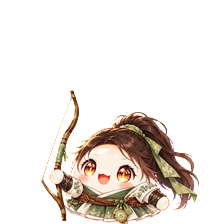
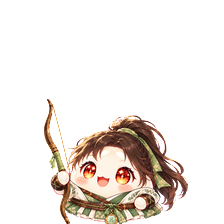
呂荃的弓改成正確拿法（弦朝身體、弓背朝外）；平台問題 P5
2026-10-10 作者：弓好像反了。從頭重產，重量身體寬與玉珮位置。

Changed region(s): [[0.1875, 0.4062, 0.9062, 1.0]]

diff --git a/scripts/gen_art.py b/scripts/gen_art.py
@@ -93,7 +93,8 @@ JOBS = {
                     'a short cream-white cross-collar top with green leaf embroidery, a sage green short layered skirt around the lower body, a brown leather belt, '
                     'small dark brown leather bracers on both nub hands, a high dark brown ponytail on top tied with a long green ribbon, amber eyes, a bright confident smile. '
                     'Weapon: the small wooden bow exactly as in image 3: a dark brown carved wooden bow with a light green cloth wrap at the grip and a thin string, already strung. '
-                    'Held upright by one nub hand beside the body, the string on the outer side. No arrows, no quiver. ' + ROUND + plate('#0000FF', 'blue')),   # 洋紅幕會吃掉帶粉的奶白身體（內部半透明 7.9 萬 px）
+                    'Held upright by one nub hand gripping the middle of the bow, beside the body, like an archer holding a bow at rest: the STRING is on the side facing the slime body (between the bow and the body), '
+                    'and the curved wooden limbs bulge OUTWARD away from the body. No arrows, no quiver. ' + ROUND + plate('#0000FF', 'blue')),   # 洋紅幕會吃掉帶粉的奶白身體（內部半透明 7.9 萬 px）   # 2026-10-10 作者：弓拿反了（第一版弦朝外、弓背朝身體）
     'outfit-xiang': (['slime', 'xiang', 'w_xiang'], OUTFIT + 'Costume of Yan Xiang from image 2 (a calm woman in plain grey-blue and earth-brown cloth robes) turned into a cute slime outfit: '
                      'a plain grey-blue cross-collar robe top with cream inner collar, a long earth-brown wrap skirt with a brown sash around the lower body, '
                      'only a small dark brown hair bun on the very top held by one simple wooden hairpin, the rest of the round dome stays bare pearl white (NO hair covering the head, NO bangs, like the bun in image 1 style), '

diff --git a/scripts/process_art.py b/scripts/process_art.py
@@ -32,10 +32,10 @@ LUBU = 'baihua'   # 呂布造型：baihua 百花戰袍／heijin 黑金戰甲
 # 造型小人身體（奶白圓頂在眼睛那一列）的寬度與中心 x，量的是去背後的 pendant-*-cut.png（玉珮版沒動構圖，跟 outfit-*-cut.png 一樣；1254px）。
 # ponytail: 手量的校正表；自動量會被兵器桿、髮繩、披風干擾（試過兩種都差到 3 成）。重產哪張就重量哪張
 BODY_PX = {'lubu-baihua': (585, 580), 'lubu-heijin': (540, 520), 'liubei': (640, 588), 'guanyu': (581, 608), 'zhangfei': (572, 570), 'diaochan': (600, 615),
-           'weixu': (607, 643), 'quan': (570, 593), 'xiang': (646, 651)}   # 呂荃右半身被頭髮蓋住，寬度照眼距推的
+           'weixu': (607, 643), 'quan': (583, 644), 'xiang': (646, 651)}   # 呂荃右半身被頭髮蓋住，寬度照眼距推的
 # 玉珮圓盤（圓心 x、y、半徑），量的是 pendant-*-cut.png；翻面時把這一圈換回沒翻過的，字才不會變鏡像字
 BADGE = {'lubu-baihua': (612, 1058, 53), 'liubei': (594, 991, 58), 'guanyu': (572, 1063, 52), 'zhangfei': (617, 1027, 45), 'diaochan': (707, 877, 42),
-         'weixu': (598, 1018, 56), 'quan': (657, 1043, 46), 'xiang': (599, 1014, 96)}
+         'weixu': (598, 1018, 56), 'quan': (642, 1066, 44), 'xiang': (599, 1014, 96)}
 FORM_PX = {'prince': (790, 638), 'hime': (745, 612)}   # 分化後兩隻的身體寬與中心 x（眼睛那一列，form-*-cut.png 手量）
 ART_LEFT = {'lubu-baihua', 'lubu-heijin', 'liubei', 'guanyu', 'weixu', 'quan', 'xiang'}   # 圖上朝左的造型（作者實際走過看的），其餘朝右
 # 小人大小（2026-10-08 作者要縮回正常大小，原本身體約兩格、放大後糊）：身體約一格寬。

diff --git a/docs/larch-platform-issues.md b/docs/larch-platform-issues.md
@@ -34,3 +34,12 @@
 - 狀況：多人連線把育嬰室設成單人地圖（`soloMaps`）。兩個玩家都在育嬰室時，畫面上互相看不到、角落顯示「單人遊玩」，但其中一人送出的聊天，另一人還是收得到。
 - 重現：兩個瀏覽器設定檔、同一個作品，都停在單人地圖，其中一邊打字聊天。
 - 不確定這是不是故意的設計（聊天以頻道為單位）。如果是，希望文件寫明；如果不是，希望單人地圖連聊天一起關掉，或給作者一個選項。
+
+<a id="p5"></a>
+## P5　一個事件超過步驟上限，整個遊戲打不開
+
+- 狀況：RPG 地圖事件裡的一串步驟（例如選項裡某個答案底下的步驟）超過 32 個，播放器一開就顯示「這個畫面壞掉了」，訊息是「每一段步驟最多 32 個，一個事件最多 160 個」。壞掉的是整個遊戲，連標題畫面都進不去，玩家沒辦法繞過那個事件繼續玩。
+- 重現：王子姬的「重新領養」選項要把每個存檔變數設回預設值，變數加到第 33 個時，那個選項底下的步驟變成 33 個，本機預覽整個打不開（2026-10-10）。
+- 說明：上限本身有寫在 RPG 規格裡，所以這條回報的重點是壞掉的範圍，跟上限多少無關。沒有測過這種地圖從 agent API 推上去時，伺服器會不會擋下；當時是在本機就發現，先修好才推。
+- 目前繞法：拿掉兩個不需要還原的變數，build 腳本加檢查，超過 32 就停下來。
+- 希望：只停用超過上限的那個事件，並在畫面或主控台指出是哪張地圖、哪個事件；或者讓「設回預設值」這種事有一個步驟可以一次處理多個變數。
